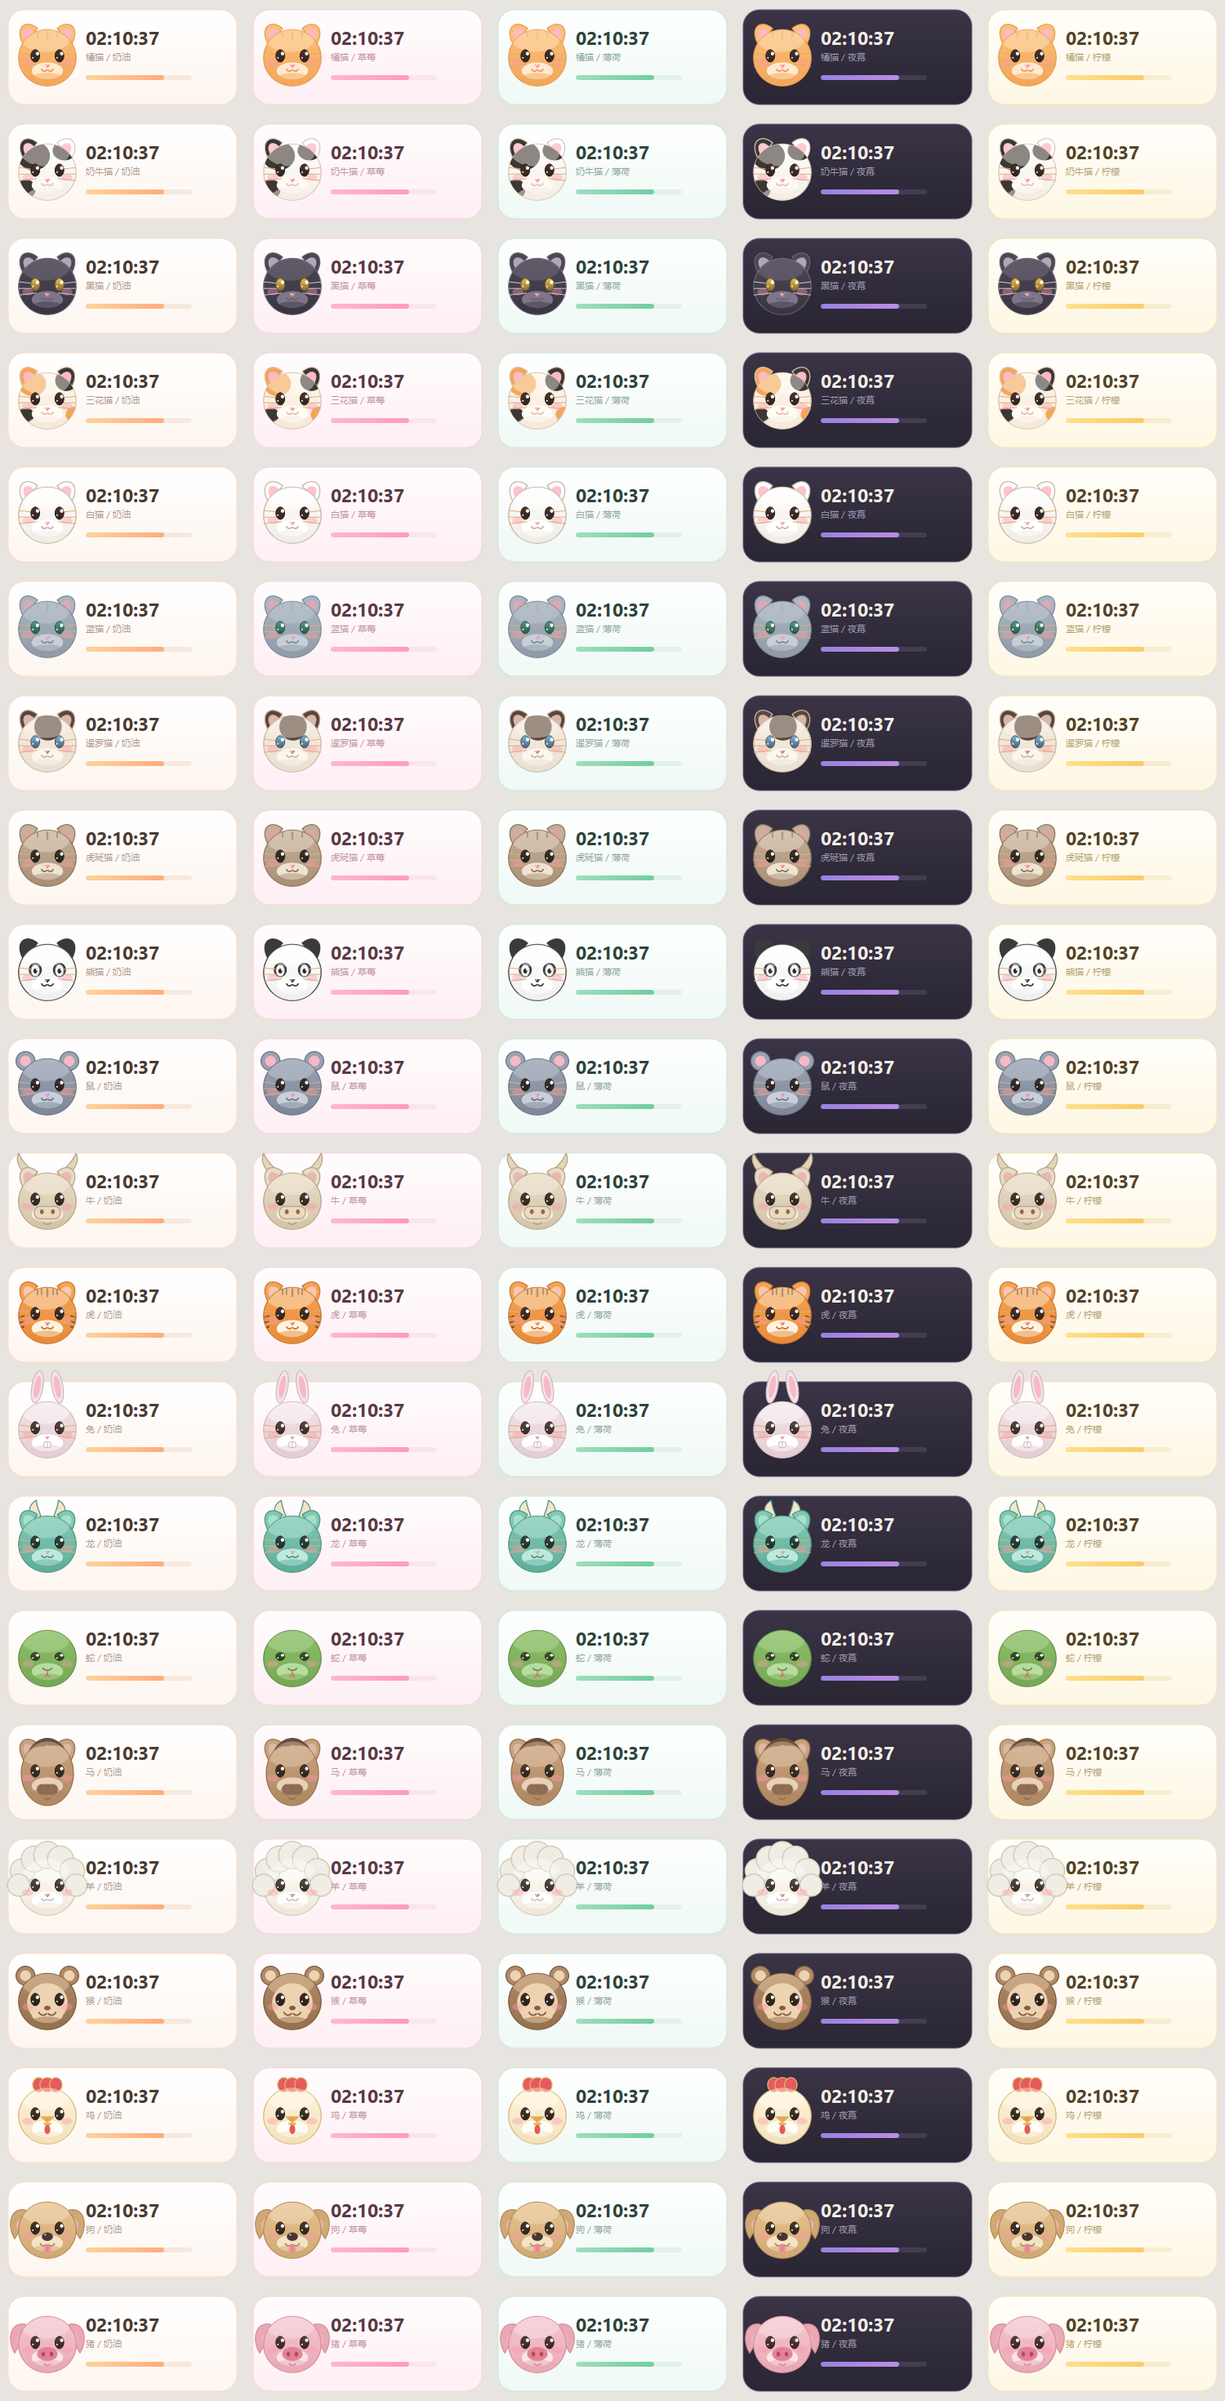
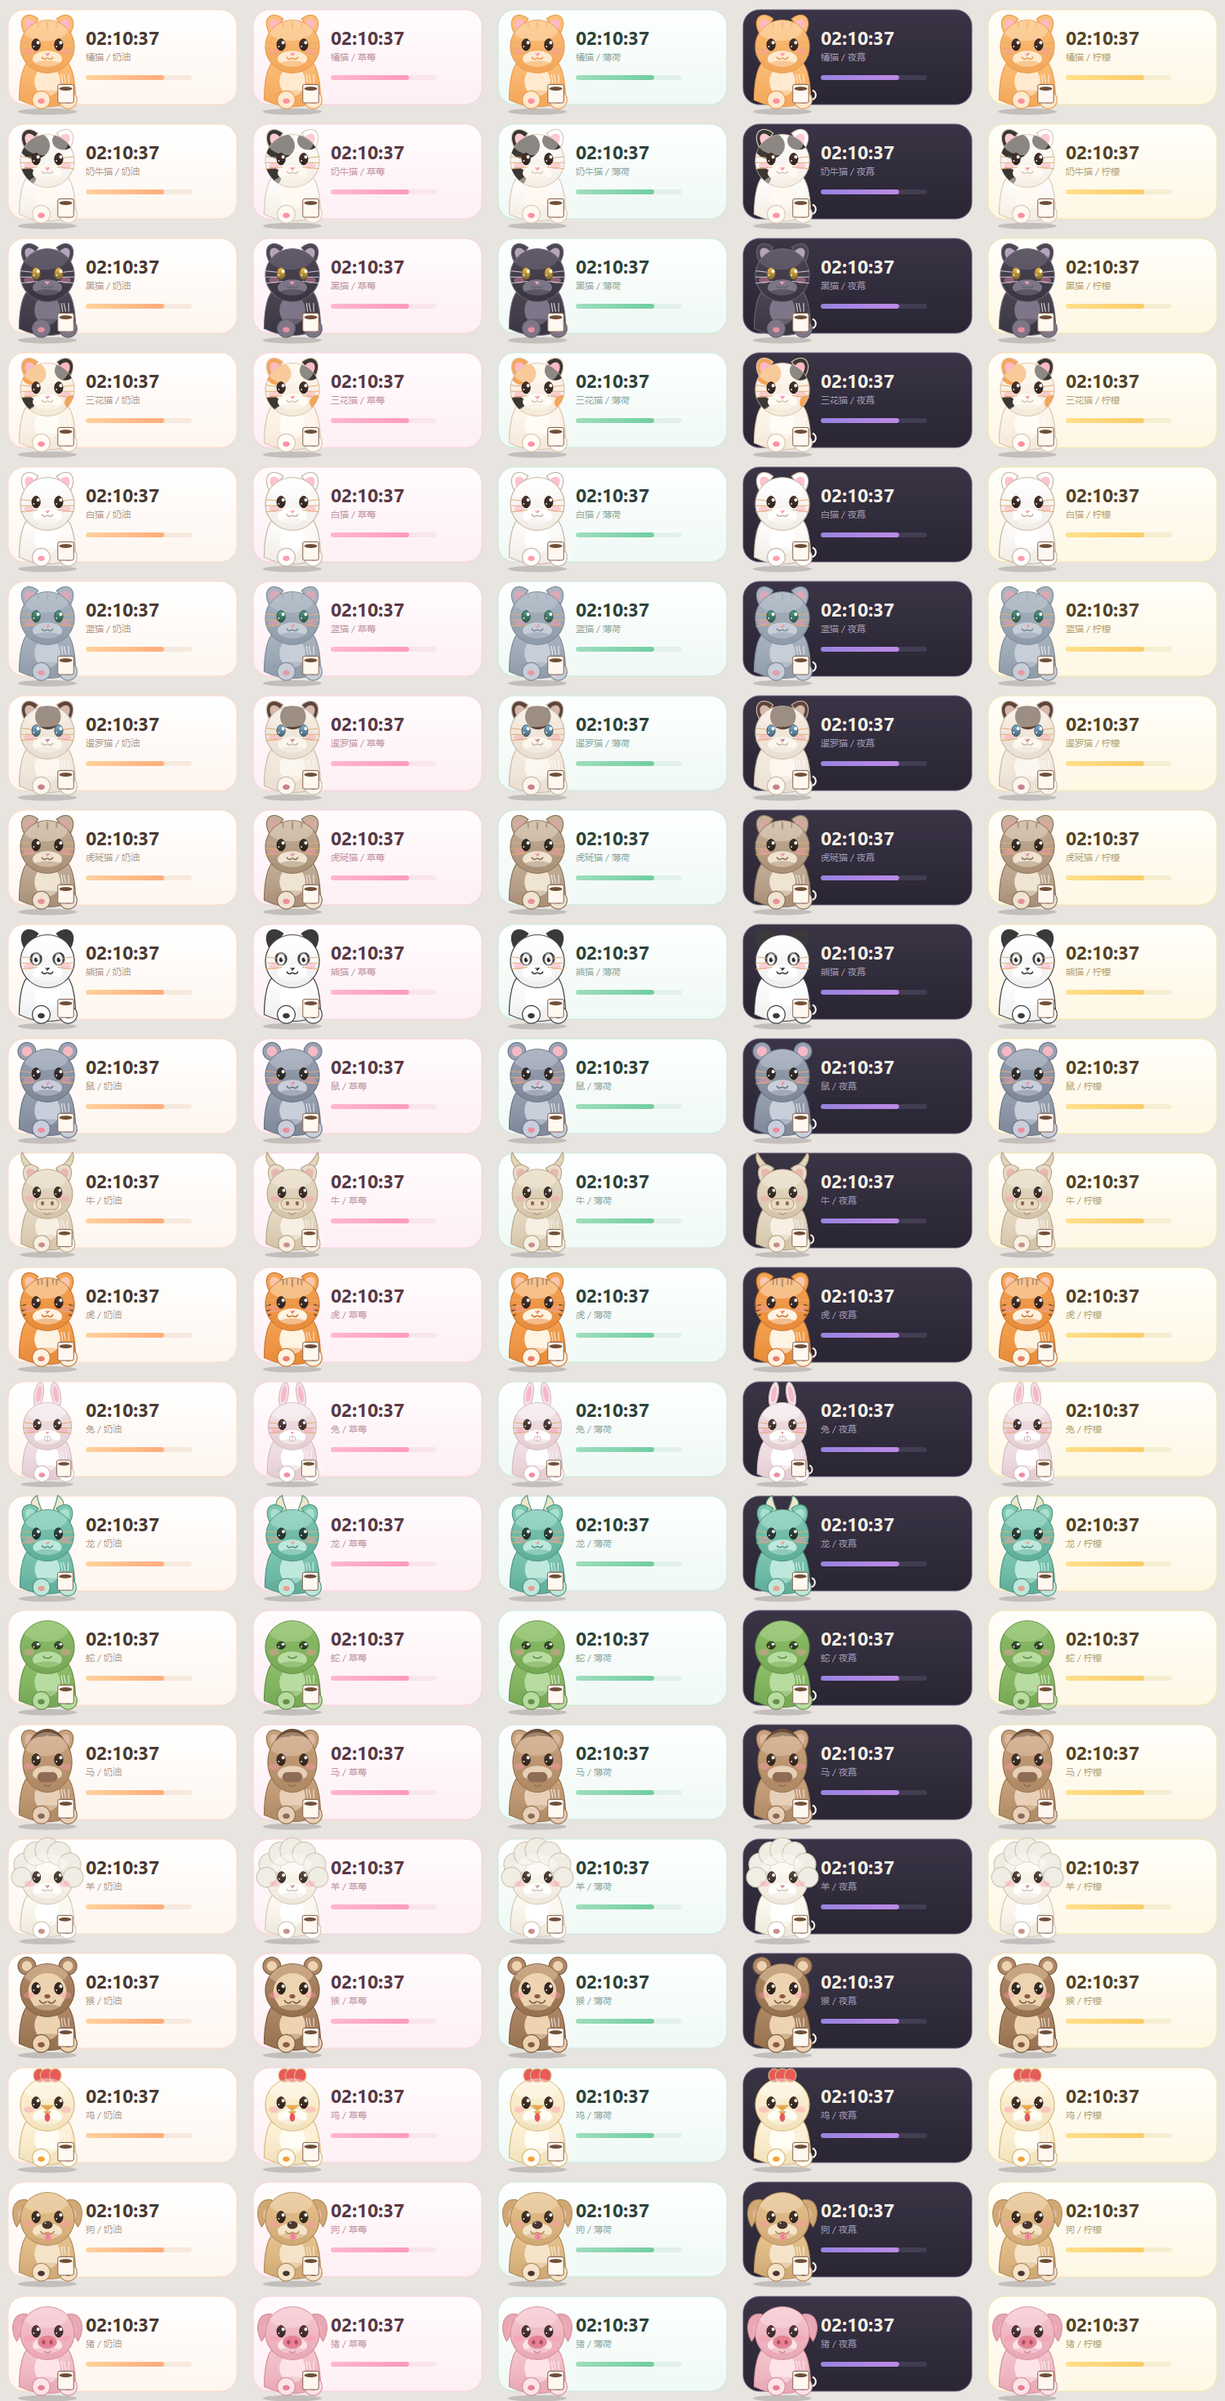
方案A：半身小猫IP上线。新增圆身体+肚皮+前爪肉垫，状态道具系统（上班咖啡/雨天雨伞/高温扇子/低温围巾/下班拎包/发薪日金币），自动按phase/天气/发薪日切换；半身模式按物种头顶延伸系数自动定尺寸防出界；右键菜单可开关；兼容2.5D/迷你模式

diff --git a/cat_clock.py b/cat_clock.py
@@ -63,6 +63,7 @@ DEFAULTS = {
     "notify_pre": True,   # 下班前 30/10 分钟预告
     "afk": True,          # 离开时猫打瞌睡
     "dim25": False,       # 2.5D 立体效果（投影/倾斜/挤压/耳抖）
+    "body": True,         # 半身模式（圆身体 + 前爪 + 状态道具）
     "scale": 1.0,         # 整体缩放（0.6-1.6，滚轮调节）
 }
 
@@ -477,9 +478,10 @@ def font(name, size, weight=None, style_hint=None):
 # ======================================================================
 def draw_cat(p, cx, cy, s, colors=None, blink=False, excited=False, sleepy=False,
              scared=False, look=(0.0, 0.0), mood=None, tail_phase=None, t=0.0,
-             dim25=False, pet_k=None, ear_tw=None):
+             dim25=False, pet_k=None, ear_tw=None, body=False, prop=None):
     """画一只可爱的猫脑袋。s 为整体直径；look 为瞳孔偏移(-1..1)；mood 待机动作；tail_phase 摇尾
-    dim25=2.5D 模式（投影/倾斜/挤压）；pet_k 摸猫进度 0..1；ear_tw=(方向±1, 进度0..1) 耳抖"""
+    dim25=2.5D 模式（投影/倾斜/挤压）；pet_k 摸猫进度 0..1；ear_tw=(方向±1, 进度0..1) 耳抖
+    body=半身模式（圆身体+前爪）；prop=手上的道具（coffee/umbrella/fan/scarf/coin/bag）"""
     if colors is None:
         colors = CHARACTERS["橘猫"]
     p.save()
@@ -501,7 +503,9 @@ def draw_cat(p, cx, cy, s, colors=None, blink=False, excited=False, sleepy=False
         p.save()
         p.setPen(Qt.PenStyle.NoPen)
         p.setBrush(QColor(0, 0, 0, 42))
-        p.drawEllipse(QRectF(cx - 0.36 * s, cy + 0.35 * s, 0.72 * s, 0.105 * s))
+        sy0 = (cy + 1.02 * s) if body else (cy + 0.35 * s)
+        sw0 = 0.48 if body else 0.36
+        p.drawEllipse(QRectF(cx - sw0 * s, sy0, 2 * sw0 * s, 0.105 * s))
         p.restore()
         # 2.5D：视差倾斜（随瞳孔方向） + 摸猫挤压拉伸（squash & stretch）
         p.save()
@@ -521,7 +525,10 @@ def draw_cat(p, cx, cy, s, colors=None, blink=False, excited=False, sleepy=False
 
     # ---- 尾巴（最底层，从头侧伸出摆动） ----
     if tail_phase is not None:
-        bx, by = cx - 0.38 * s, cy + 0.32 * s
+        if body:
+            bx, by = cx - 0.46 * s, cy + 0.66 * s
+        else:
+            bx, by = cx - 0.38 * s, cy + 0.32 * s
         sw = math.sin(tail_phase) * 0.18 * s
         tail = QPainterPath()
         tail.moveTo(bx, by)
@@ -641,6 +648,40 @@ def draw_cat(p, cx, cy, s, colors=None, blink=False, excited=False, sleepy=False
             p.drawPath(inner)
         if tw_rot:
             p.restore()
+
+    # ---- 半身：圆润身体（头之前绘制，头会自然盖住肩线） ----
+    if body:
+        bw = s * 0.92          # 底宽
+        shw = s * 0.58         # 肩宽
+        by0 = cy + s * 0.24    # 肩线
+        by1 = cy + s * 1.02    # 底边
+        bp = QPainterPath()
+        bp.moveTo(cx - shw / 2, by0)
+        bp.cubicTo(cx - bw / 2, by0 + 0.10 * s,
+                   cx - bw / 2, by1 - 0.20 * s,
+                   cx - bw / 2, by1 - 0.14 * s)
+        bp.quadTo(cx, by1 + 0.08 * s, cx + bw / 2, by1 - 0.14 * s)
+        bp.cubicTo(cx + bw / 2, by1 - 0.20 * s,
+                   cx + bw / 2, by0 + 0.10 * s,
+                   cx + shw / 2, by0)
+        bp.closeSubpath()
+        bg = QLinearGradient(cx, by0, cx, by1)
+        bg.setColorAt(0, QColor(colors["fur"]))
+        bg.setColorAt(1, QColor(colors["fur_d"]))
+        p.setPen(outline)
+        p.setBrush(bg)
+        p.drawPath(bp)
+        # 肚皮浅色
+        p.setPen(Qt.PenStyle.NoPen)
+        p.setBrush(QColor(colors["fur_l"]))
+        p.drawEllipse(QRectF(cx - 0.21 * s, by0 + 0.10 * s, 0.42 * s, 0.48 * s))
+        # 底部暗边（体积感）
+        p.setClipPath(bp)
+        shade = QColor(colors["fur_d"])
+        shade.setAlpha(90)
+        p.setBrush(shade)
+        p.drawEllipse(QRectF(cx - 0.50 * s, by1 - 0.30 * s, 1.00 * s, 0.44 * s))
+        p.setClipping(False)
 
     # ---- 头 ----
     grad = QLinearGradient(cx, cy - 0.44 * s, cx, cy + 0.46 * s)
@@ -952,6 +993,115 @@ def draw_cat(p, cx, cy, s, colors=None, blink=False, excited=False, sleepy=False
         p.setBrush(QColor("#8EC9E8"))
         p.drawEllipse(QRectF(cx + 0.24 * s, cy - 0.42 * s, 0.10 * s, 0.14 * s))
 
+    # ---- 半身：前爪 + 道具 ----
+    if body:
+        paw_r = s * 0.145
+        lpx, rpx = cx - 0.44 * s, cx + 0.44 * s
+        lpy = rpy = cy + 0.82 * s
+        if prop == "coffee":                       # 双手捧杯
+            lpx, rpx = cx - 0.10 * s, cx + 0.34 * s
+            lpy = rpy = cy + 0.88 * s
+        elif prop == "coin":                       # 双手捧金币
+            lpx, rpx = cx - 0.28 * s, cx + 0.28 * s
+            lpy = rpy = cy + 0.90 * s
+        elif prop == "bag":                        # 右手拎包（爪抬高）
+            rpx, rpy = cx + 0.52 * s, cy + 0.72 * s
+        elif prop == "fan":                        # 右手拿扇
+            rpx, rpy = cx + 0.50 * s, cy + 0.78 * s
+        for px, py in ((lpx, lpy), (rpx, rpy)):
+            p.setPen(outline)
+            p.setBrush(QColor(colors["fur_l"]))
+            p.drawEllipse(QRectF(px - paw_r, py - paw_r, 2 * paw_r, 2 * paw_r))
+            p.setPen(Qt.PenStyle.NoPen)
+            p.setBrush(QColor(colors["nose"]))
+            p.drawEllipse(QRectF(px - paw_r * 0.40, py - paw_r * 0.16,
+                                 paw_r * 0.80, paw_r * 0.60))
+
+        if prop == "coffee":                       # 咖啡杯 + 热气
+            cupx, cupy = cx + 0.30 * s, cy + 0.78 * s
+            cw, ch = s * 0.26, s * 0.30
+            p.setPen(QPen(QColor("#8A6A58"), max(1.0, s * 0.014)))
+            p.setBrush(QColor("#FFF8F0"))
+            p.drawRoundedRect(QRectF(cupx - cw / 2, cupy - ch / 2, cw, ch),
+                              s * 0.03, s * 0.03)
+            p.setPen(Qt.PenStyle.NoPen)
+            p.setBrush(QColor("#6F4E37"))
+            p.drawEllipse(QRectF(cupx - cw / 2 + s * 0.025, cupy - ch / 2 + s * 0.035,
+                                 cw - s * 0.05, s * 0.065))
+            p.setPen(QPen(QColor("#FFF8F0"), max(1.4, s * 0.028)))
+            p.setBrush(Qt.BrushStyle.NoBrush)
+            p.drawArc(QRectF(cupx + cw / 2 - s * 0.015, cupy - s * 0.055,
+                             s * 0.13, s * 0.15), -68 * 16, 136 * 16)
+            p.setPen(QPen(QColor(255, 255, 255, 185), max(1.0, s * 0.016),
+                          Qt.PenStyle.SolidLine, Qt.PenCapStyle.RoundCap))
+            for i, dx in enumerate((-0.07, 0.0, 0.07)):
+                ph = t * 1.7 + i * 1.15
+                p.drawLine(QPointF(cupx + dx * s + math.sin(ph) * s * 0.022,
+                                   cupy - ch / 2 - s * 0.03),
+                           QPointF(cupx + dx * s + math.sin(ph + 1.1) * s * 0.032,
+                                   cupy - ch / 2 - s * 0.16))
+        elif prop == "umbrella":                   # 头顶小伞
+            ux, uy = cx + 0.04 * s, cy - 0.80 * s
+            uw = s * 0.60
+            p.setPen(QPen(QColor("#3F86AE"), max(1.0, s * 0.014)))
+            p.setBrush(QColor("#6FB3DC"))
+            up = QPainterPath()
+            up.moveTo(ux - uw, uy)
+            up.quadTo(ux, uy - s * 0.46, ux + uw, uy)
+            up.quadTo(ux + uw * 0.50, uy + s * 0.07, ux, uy + s * 0.025)
+            up.quadTo(ux - uw * 0.50, uy + s * 0.07, ux - uw, uy)
+            up.closeSubpath()
+            p.drawPath(up)
+            p.setPen(QPen(QColor("#8A6A58"), max(1.2, s * 0.020),
+                          Qt.PenStyle.SolidLine, Qt.PenCapStyle.RoundCap))
+            p.drawLine(QPointF(ux, uy - s * 0.30), QPointF(ux, uy))
+            p.drawArc(QRectF(ux - s * 0.07, uy - s * 0.30, s * 0.11, s * 0.11), 0, 180 * 16)
+        elif prop == "fan":                        # 扇子（随 t 摆动）
+            fx, fy = cx + 0.52 * s, cy + 0.62 * s
+            p.save()
+            p.translate(fx, fy)
+            p.rotate(math.sin(t * 3.2) * 20)
+            p.setPen(QPen(QColor("#C0566B"), max(1.0, s * 0.014)))
+            p.setBrush(QColor("#F4B8C4"))
+            fp = QPainterPath()
+            fp.moveTo(0, s * 0.20)
+            fp.lineTo(-s * 0.21, -s * 0.10)
+            fp.quadTo(0, -s * 0.22, s * 0.21, -s * 0.10)
+            fp.closeSubpath()
+            p.drawPath(fp)
+            p.restore()
+        elif prop == "scarf":                      # 围巾
+            sy2 = cy + 0.50 * s
+            p.setPen(QPen(QColor("#A8455C"), max(1.0, s * 0.014)))
+            p.setBrush(QColor("#E2687E"))
+            p.drawRoundedRect(QRectF(cx - 0.32 * s, sy2, 0.64 * s, 0.17 * s),
+                              s * 0.08, s * 0.08)
+            p.drawRoundedRect(QRectF(cx + 0.14 * s, sy2 + 0.11 * s, 0.15 * s, 0.32 * s),
+                              s * 0.07, s * 0.07)
+        elif prop == "coin":                       # 金币
+            cxx, cyy = cx, cy + 0.90 * s
+            p.setPen(QPen(QColor("#C9922A"), max(1.0, s * 0.014)))
+            p.setBrush(QColor("#FFD34D"))
+            p.drawEllipse(QRectF(cxx - s * 0.14, cyy - s * 0.14, s * 0.28, s * 0.28))
+            p.setPen(QPen(QColor("#B07C1E"), max(1.0, s * 0.013)))
+            p.setBrush(Qt.BrushStyle.NoBrush)
+            p.drawEllipse(QRectF(cxx - s * 0.09, cyy - s * 0.09, s * 0.18, s * 0.18))
+            p.setPen(QColor("#A87618"))
+            p.setFont(font("Microsoft YaHei", max(7, int(s * 0.15)), QFont.Weight.Bold))
+            p.drawText(QRectF(cxx - s * 0.15, cyy - s * 0.15, s * 0.30, s * 0.30),
+                       Qt.AlignmentFlag.AlignCenter, "¥")
+        elif prop == "bag":                        # 拎包
+            bx2, by2 = cx + 0.66 * s, cy + 0.94 * s
+            bw2, bh2 = s * 0.34, s * 0.28
+            p.setPen(QPen(QColor("#8A6A58"), max(1.0, s * 0.014)))
+            p.setBrush(QColor("#C9A882"))
+            p.drawRoundedRect(QRectF(bx2 - bw2 / 2, by2 - bh2 / 2, bw2, bh2),
+                              s * 0.05, s * 0.05)
+            p.setBrush(Qt.BrushStyle.NoBrush)
+            p.setPen(QPen(QColor("#8A6A58"), max(1.0, s * 0.018)))
+            p.drawArc(QRectF(bx2 - s * 0.10, by2 - bh2 / 2 - s * 0.15,
+                             s * 0.20, s * 0.22), 0, 180 * 16)
+
     # ---- Zzz ----
     if sleepy:
         for i, (dx, dy, a) in enumerate(((0.34, -0.44, 230), (0.50, -0.60, 190), (0.64, -0.76, 150))):
@@ -1220,6 +1370,14 @@ class RestDaysDialog(QDialog):
         return [i for i, b in enumerate(self.boxes) if b.isChecked()]
 
 
+# 各物种"头顶以上"的延伸系数（耳朵/角/鸡冠），半身模式用来自动定尺寸防出界
+_TOP_EXT = {"rabbit": 0.86, "ox": 0.76, "dragon": 0.70,
+           "sheep": 0.72, "rooster": 0.64, "horse": 0.64}
+
+# 状态 → 手上的道具
+PROP_BY_WEATHER = {"rain": "umbrella", "thunder": "umbrella", "snow": "scarf"}
+
+
 class CatClock(QWidget):
     W = 272
     H_FULL = 122
@@ -1328,14 +1486,20 @@ class CatClock(QWidget):
 
     def _cat_geo(self):
         """猫(动物)的绘制几何：直径 cs、中心 (ccx, ccy)。
-        兔耳/牛角等超高特征需要下移并微调尺寸防出界。"""
+        半身模式按物种头顶延伸系数自动定尺寸，保证「头 + 身体」都在画布内。"""
         mini = bool(self.cfg.get("mini", False))
-        cs = 60 if mini else 84
-        dy = 0
-        if self.char_colors().get("shape") == "rabbit":
-            cs, dy = (56, 12) if mini else (84, 10)
-        ccy = (self.H_MINI if mini else self.H_FULL) / 2 + dy
-        return cs, (54 if mini else 58), ccy
+        H = self.H_MINI if mini else self.H_FULL
+        ccx = 54 if mini else 58
+        if not bool(self.cfg.get("body", True)):
+            cs, dy = (60, 0) if mini else (84, 0)
+            if self.char_colors().get("shape") == "rabbit":
+                cs, dy = (56, 12) if mini else (84, 10)
+            return cs, ccx, H / 2 + dy
+        shape = self.char_colors().get("shape", "cat")
+        top = _TOP_EXT.get(shape, 0.64)
+        cs = int((H - 8) / (top + 1.02))
+        cs = max(30, min(96, cs))
+        return cs, ccx, 4 + top * cs
 
     def style(self):
         return STYLES[self.cfg["style"]]
@@ -1434,6 +1598,9 @@ class CatClock(QWidget):
         self.act_25d = QAction("2.5D 立体效果", self, checkable=True)
         self.act_25d.setChecked(bool(self.cfg.get("dim25", False)))
         self.act_25d.triggered.connect(lambda on: self.toggle_cfg("dim25", on))
+        self.act_body = QAction("半身小猫（身体+道具）", self, checkable=True)
+        self.act_body.setChecked(bool(self.cfg.get("body", True)))
+        self.act_body.triggered.connect(lambda on: self.toggle_cfg("body", on))
 
         # 大小子菜单
         self.size_menu = QMenu("大小（也可在窗口上滚轮）", self)
@@ -1486,6 +1653,7 @@ class CatClock(QWidget):
         self.menu.addAction(self.act_npre)
         self.menu.addAction(self.act_afk)
         self.menu.addAction(self.act_25d)
+        self.menu.addAction(self.act_body)
         self.menu.addSeparator()
         self.menu.addMenu(self.size_menu)
         self.menu.addSeparator()
@@ -1961,11 +2129,35 @@ class CatClock(QWidget):
         ear_tw = None
         if dim25 and self.ear_tw:
             ear_tw = (self.ear_tw[0], (self.t0 - self.ear_tw[1]) / 0.6)
+        # 半身模式：按状态决定手上的道具
+        body = bool(self.cfg.get("body", True))
+        prop = None
+        if body:
+            now = datetime.now()
+            pday = int(self.cfg.get("payday", 0) or 0)
+            is_payday = pday and now.day == min(pday, calendar.monthrange(
+                now.year, now.month)[1])
+            wkind = self.weather["kind"] if self.weather else None
+            if is_payday:
+                prop = "coin"
+            elif self.afk:
+                prop = None                                   # 打瞌睡：不拿东西
+            elif wkind in ("rain", "thunder"):
+                prop = "umbrella"
+            elif wtemp is not None and wtemp >= 32:
+                prop = "fan"
+            elif wtemp is not None and wtemp <= 2:
+                prop = "scarf"
+            elif phase == "off":
+                prop = "bag"
+            elif phase == "work":
+                prop = "coffee"
         draw_cat(p, ccx + shake, ccy, cs, self.char_colors(),
                  blink=self.blink_t < 0.18 or meowing, excited=excited, sleepy=sleepy,
                  scared=thunder or too_hot, look=look, mood=mood,
                  tail_phase=tail_phase, t=self.t0, dim25=dim25,
-                 pet_k=self.meow_t if self.meow_t < 1.0 else None, ear_tw=ear_tw)
+                 pet_k=self.meow_t if self.meow_t < 1.0 else None, ear_tw=ear_tw,
+                 body=body, prop=prop)
 
         # 天气小图标（右上角）
         if self.weather and not mini:

diff --git a/preview_all.py b/preview_all.py
@@ -5,7 +5,7 @@ sys.path.insert(0, r"D:\CatClock")
 from PyQt6.QtWidgets import QApplication
 from PyQt6.QtGui import QPixmap, QPainter, QColor, QFont, QLinearGradient, QPen
 from PyQt6.QtCore import Qt, QRectF
-from cat_clock import CHARACTERS, STYLES, draw_cat, rr
+from cat_clock import CHARACTERS, STYLES, draw_cat, rr, _TOP_EXT
 
 app = QApplication([])
 CELL_W, CELL_H = 300, 140
@@ -28,8 +28,13 @@ for r, cname in enumerate(rows):
         p.setBrush(g)
         p.setPen(QPen(QColor(*st["border"], 200), 1.2))
         p.drawPath(rr(ox + 10, oy + 12, CELL_W - 20, CELL_H - 24, 20))
-        # 猫
-        draw_cat(p, ox + 58, oy + CELL_H / 2, 80, CHARACTERS[cname])
+        # 猫（半身模式）
+        shape = CHARACTERS[cname].get("shape", "cat")
+        top = _TOP_EXT.get(shape, 0.64)
+        cs = int((CELL_H - 14) / (top + 1.02))
+        ccy = 7 + top * cs
+        draw_cat(p, ox + 58, oy + ccy, cs, CHARACTERS[cname],
+                 body=True, prop="coffee", t=1.2, dim25=True)
         # 文字示例
         p.setPen(QColor(st["text"]))
         p.setFont(QFont("Segoe UI", 17, QFont.Weight.Bold))
